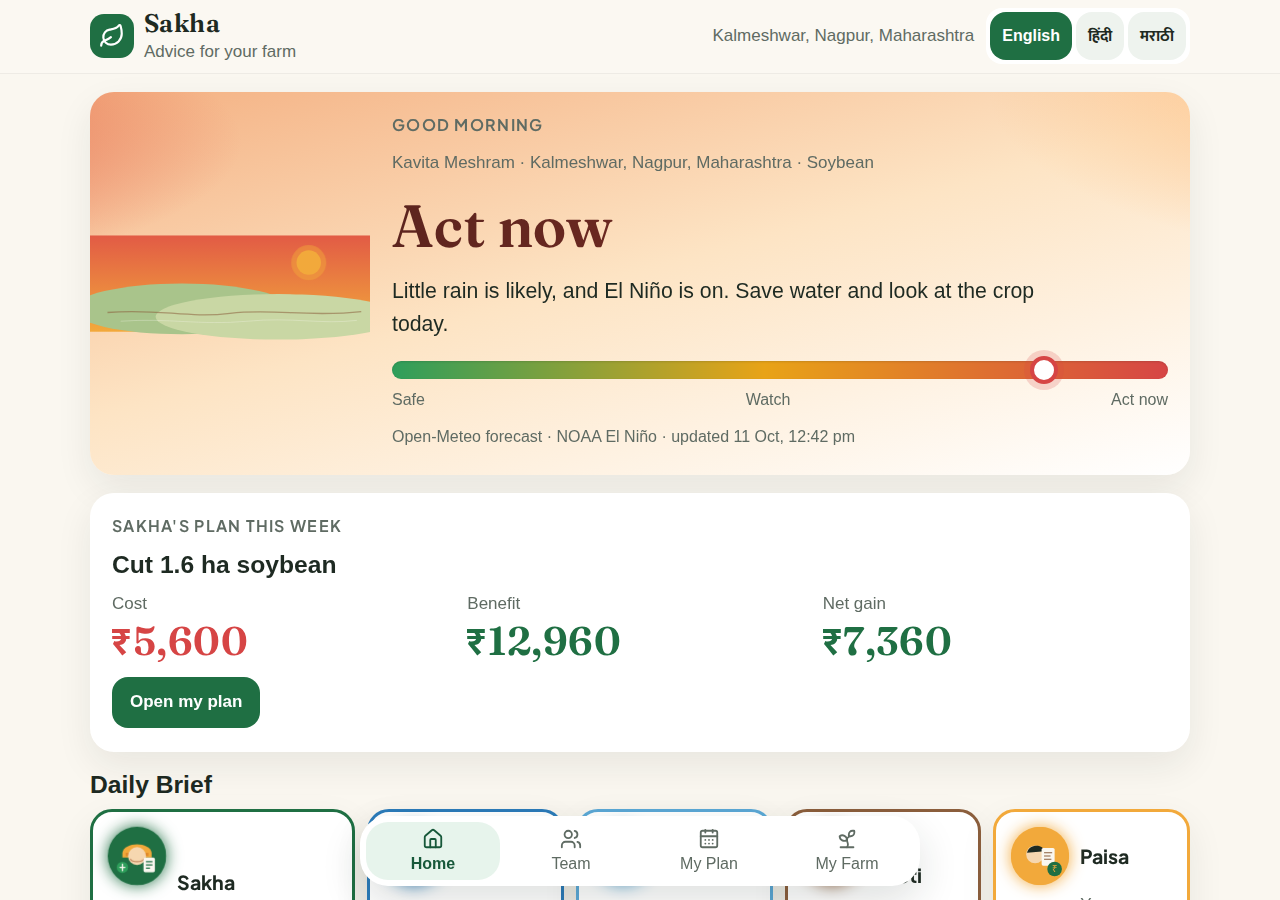
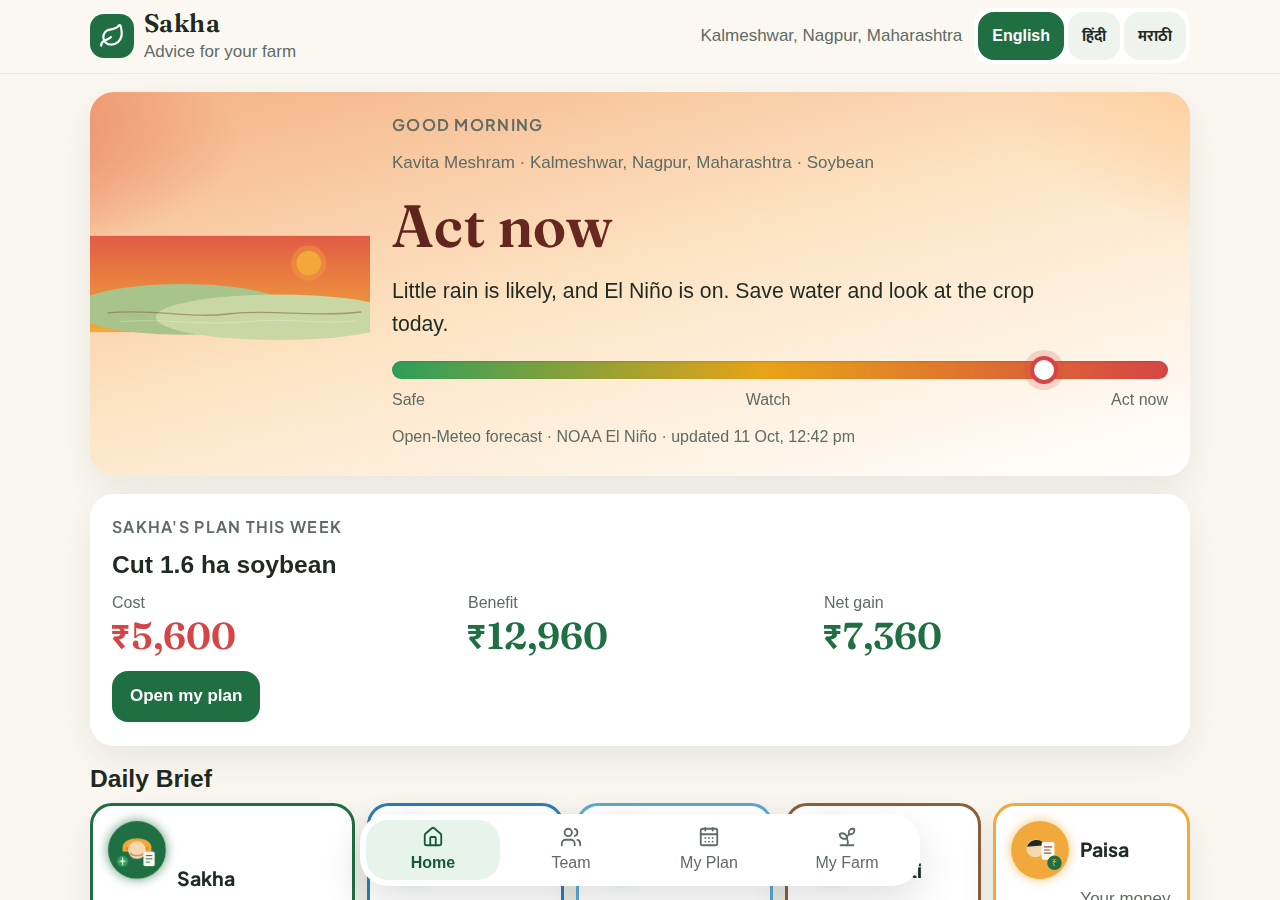
fix: keep figures and labels from running together
Scale the rupee row to its column and keep the language labels inside their buttons, using the shared line-height and caption tokens.

diff --git a/apps/web/src/styles.css b/apps/web/src/styles.css
@@ -89,8 +89,12 @@
   --font-body: "Sakha Sans", sans-serif;
   --leading-body: 1.55;
   --leading-heading: 1.2;
+  --leading-label: 1.4;
   --tracking-display: 0.015em;
+  --tracking-eyebrow: 0.08em;
   --text-caption: 16px;
+  --text-money: 2.2rem;
+  --space-card: 22px;
   font-family: var(--font-body);
   font-size: 17px;
   line-height: var(--leading-body);
@@ -264,9 +268,9 @@ a {
 .eyebrow {
   font-size: var(--text-caption);
   font-weight: 650;
-  letter-spacing: 0.08em;
+  letter-spacing: var(--tracking-eyebrow);
   text-transform: uppercase;
-  line-height: 1.4;
+  line-height: var(--leading-label);
 }
 .brand-mark {
   width: 44px;
@@ -324,10 +328,11 @@ html {
   gap: 4px;
   text-decoration: none;
   color: var(--muted);
-  font-size: 16px;
-  line-height: 1.25;
+  font-size: var(--text-caption);
+  line-height: var(--leading-label);
   letter-spacing: 0;
-  padding: 6px 4px;
+  padding: 6px 2px;
+  text-align: center;
 }
 .tab-bar a[aria-current="page"] {
   background: #e7f4ec;
@@ -357,9 +362,12 @@ html {
 .lang-toggle button {
   background: #eef3ee;
   color: var(--text);
-  font-size: 16px;
-  padding: 8px 12px;
+  font-size: var(--text-caption);
+  padding: 8px 14px;
   letter-spacing: 0;
+  flex: 0 0 auto;
+  width: auto;
+  white-space: nowrap;
 }
 .button.ghost {
   background: transparent;
@@ -432,7 +440,7 @@ html {
 .card,
 .answer-card,
 .state-panel {
-  padding: 22px 22px 24px;
+  padding: var(--space-card) var(--space-card) 24px;
 }
 .card,
 .hero,
@@ -622,8 +630,8 @@ html {
   border-radius: 999px;
   background: #f3eee4;
   font-style: normal;
-  font-size: 16px;
-  line-height: 1.45;
+  font-size: var(--text-caption);
+  line-height: var(--leading-body);
   letter-spacing: 0;
   white-space: normal;
 }
@@ -754,7 +762,7 @@ html {
 .source-badge {
   color: var(--muted);
   font-size: var(--text-caption);
-  line-height: 1.5;
+  line-height: var(--leading-body);
 }
 
 .meter {
@@ -802,7 +810,7 @@ html {
   margin-top: 10px;
   color: var(--muted);
   font-size: var(--text-caption);
-  line-height: 1.4;
+  line-height: var(--leading-label);
   letter-spacing: 0;
 }
 
@@ -916,7 +924,7 @@ html {
   padding: 8px 14px;
   border-radius: 999px;
   background: #f3f0e6;
-  line-height: 1.4;
+  line-height: var(--leading-label);
   letter-spacing: 0;
 }
 .chip.checked {
@@ -1233,6 +1241,13 @@ html {
   }
   .place {
     text-align: left;
+    min-width: 0;
+  }
+  .lang-toggle {
+    flex: none;
+  }
+  .lang-toggle button {
+    padding: 8px 6px;
   }
   .hero .field-art {
     display: none;
@@ -1291,20 +1306,29 @@ html {
 .money-row {
   display: grid;
   grid-template-columns: repeat(3, minmax(0, 1fr));
-  gap: 10px;
+  gap: 12px;
   width: 100%;
+}
+.money-row > div {
+  min-width: 0;
+  container-type: inline-size;
 }
 .money-row span {
   display: block;
   color: var(--muted);
+  font-size: var(--text-caption);
+  line-height: var(--leading-label);
 }
 .money-row strong {
   display: block;
+  max-width: 100%;
   font-family: var(--font-display);
-  font-size: clamp(1.7rem, 4.4vw, 2.35rem);
+  font-size: 1.35rem;
+  font-size: clamp(1.2rem, 24cqi, var(--text-money));
   font-weight: 620;
-  letter-spacing: var(--tracking-display);
-  line-height: 1.2;
+  letter-spacing: 0;
+  line-height: var(--leading-heading);
+  white-space: nowrap;
   font-variant-numeric: lining-nums tabular-nums;
   font-variation-settings:
     "opsz" 48,
@@ -1396,7 +1420,7 @@ html[lang="hi"] .brand,
 html[lang="mr"] .brand,
 html[lang="hi"] .hero h1,
 html[lang="mr"] .hero h1,
-html[lang="hi"] .money-row strong,
-html[lang="mr"] .money-row strong {
+html[lang="hi"] .mate-head h1,
+html[lang="mr"] .mate-head h1 {
   letter-spacing: 0;
 }
